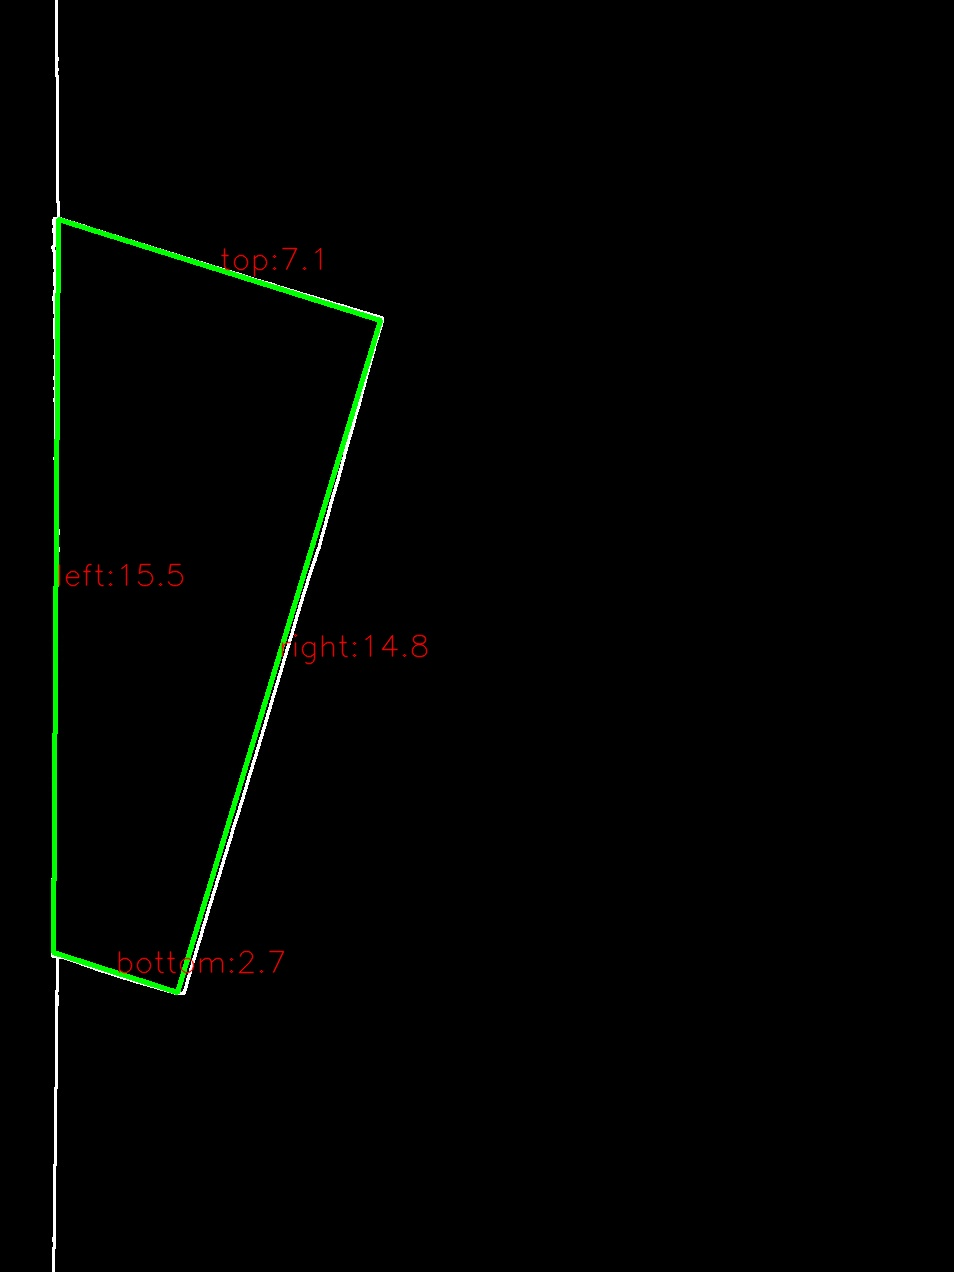
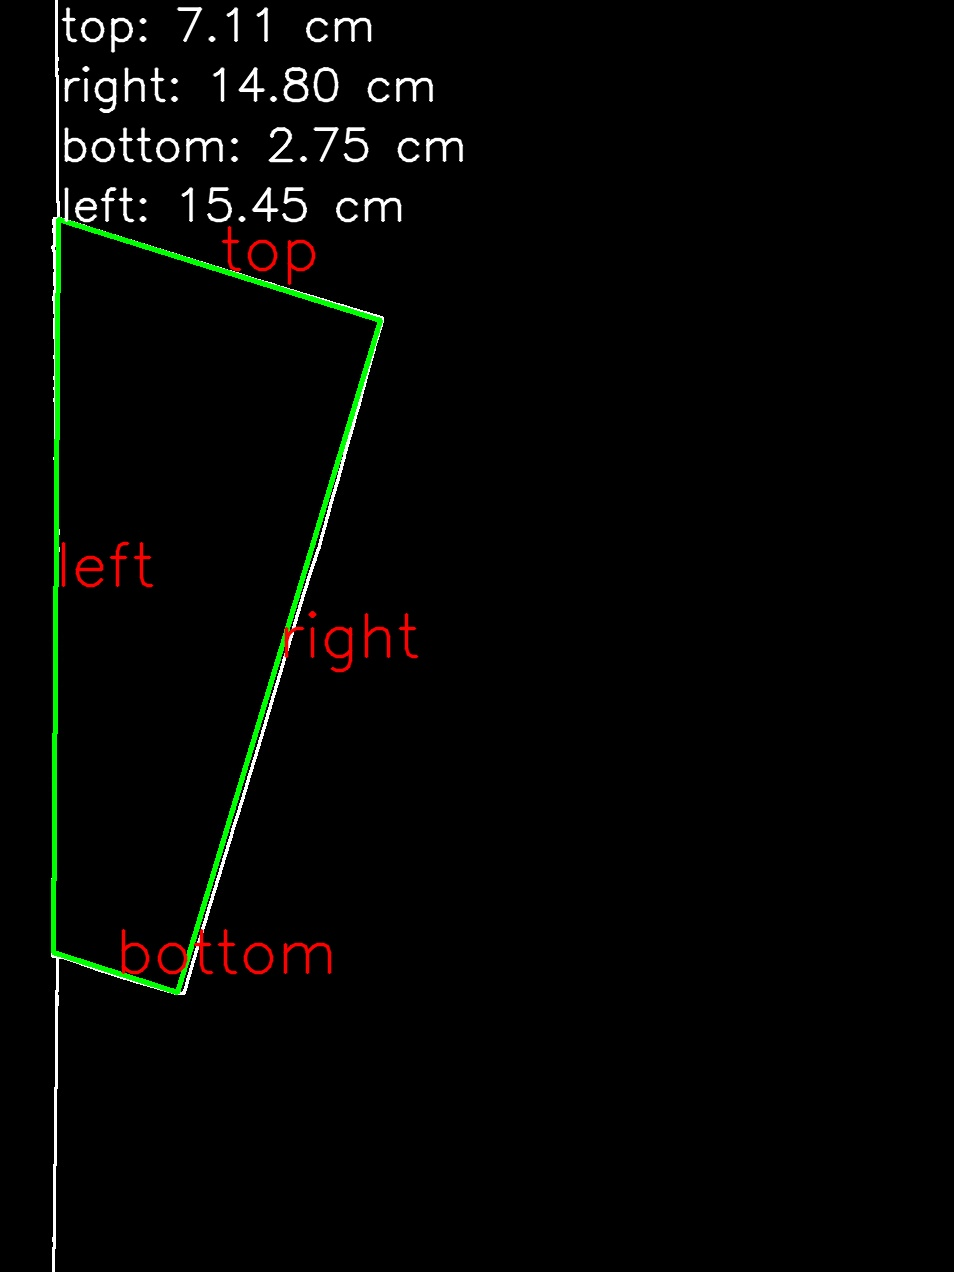
0822

diff --git a/fold_paper_2/find_max_area.py b/fold_paper_2/find_max_area.py
@@ -16,7 +16,7 @@ class MaxAreaQuadFinder:
 
     def find_max_area_quad(self):
         gray = cv2.cvtColor(self.img, cv2.COLOR_BGR2GRAY)
-        edges = cv2.Canny(gray, 20, 150)
+        edges = cv2.Canny(gray, 20, 120)
         contours, _ = cv2.findContours(
             edges, cv2.RETR_EXTERNAL, cv2.CHAIN_APPROX_SIMPLE
         )
@@ -38,19 +38,34 @@ class MaxAreaQuadFinder:
             cv2.drawContours(self.img, [self.max_contour], -1, (0, 255, 0), 3)
             print("最大面積:", self.max_area)
             print("四個頂點座標:\n", self.max_contour.reshape(4, 2))
+            # 顯示四邊長於左上角
             if self.side_lengths:
                 print("邊長 :")
-                for k, v in self.side_lengths.items():
+                lines = []
+                for k in ["top", "right", "bottom", "left"]:
+                    v = self.side_lengths[k]
+                    lines.append(f"{k}: {(v / self.px2cm):.2f} cm")
                     print(f"  {k}: {v:.2f} 像素, {(v / self.px2cm):.2f} cm")
                 # 標註邊長
                 self._annotate_lengths()
+                # 將四邊長資訊畫在左上角
+                x0, y0 = 10, 30
+                for i, text in enumerate(lines):
+                    cv2.putText(
+                        self.img,
+                        text,
+                        (x0 + 50, y0 + (i * 60) + 10),
+                        cv2.FONT_HERSHEY_SIMPLEX,
+                        1.5,
+                        (255, 255, 255),
+                        2,
+                        cv2.LINE_AA,
+                    )
             resized = cv2.resize(self.img, (0, 0), fx=0.5, fy=0.5)
-            cv2.imshow("Max Area Quad", resized)
+            # cv2.imshow("Max Area Quad", resized)
             cv2.waitKey(0)
             cv2.destroyAllWindows()
-            # print(self.image_path)
             name = self.image_path.split("\\")[-1].split("_")[0]
-            # print(name)
             print(rf"儲存結果到 result\{name}_max_area_quad.jpg")
             cv2.imwrite(rf"result\{name}_max_area_quad.jpg", self.img)
         else:
@@ -98,12 +113,12 @@ class MaxAreaQuadFinder:
             length = self.side_lengths[name]
             cv2.putText(
                 self.img,
-                f"{name}:{(length / self.px2cm):.1f}",
+                f"{name}",
                 mid,
                 cv2.FONT_HERSHEY_SIMPLEX,
-                1,
+                2,
                 (0, 0, 255),
-                1,
+                2,
                 cv2.LINE_AA,
             )
 

diff --git a/fold_paper_2/main.py b/fold_paper_2/main.py
@@ -7,7 +7,7 @@ if __name__ == "__main__":
         image_path = rf"img\{img}.jpg"
         img = cv2.imread(image_path)
         resized = cv2.resize(img, (0, 0), fx=0.5, fy=0.5)
-        cv2.imshow("Image", resized)
+        # cv2.imshow("Image", resized)
         cv2.waitKey(0)
         cv2.destroyAllWindows()
         detector = PaperDetector_edges(image_path)

diff --git a/fold_paper_2/PaperDetector_edge.py b/fold_paper_2/PaperDetector_edge.py
@@ -79,7 +79,7 @@ class PaperDetector_edges:
             edges_resized = cv2.resize(edges, (new_width, new_height))
         else:
             edges_resized = edges
-        cv2.imshow("edges", edges_resized)
+        # cv2.imshow("edges", edges_resized)
         cv2.waitKey(0)
         cv2.destroyAllWindows()
         self.original = image
